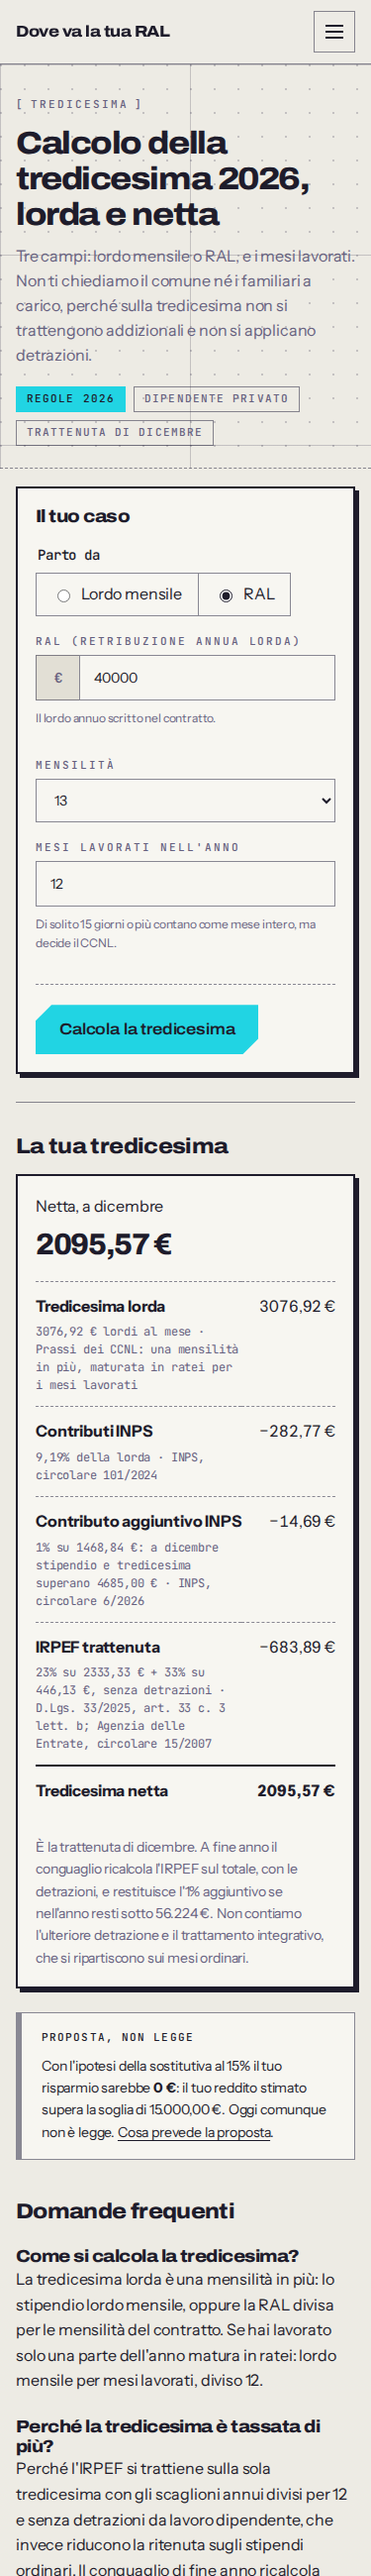
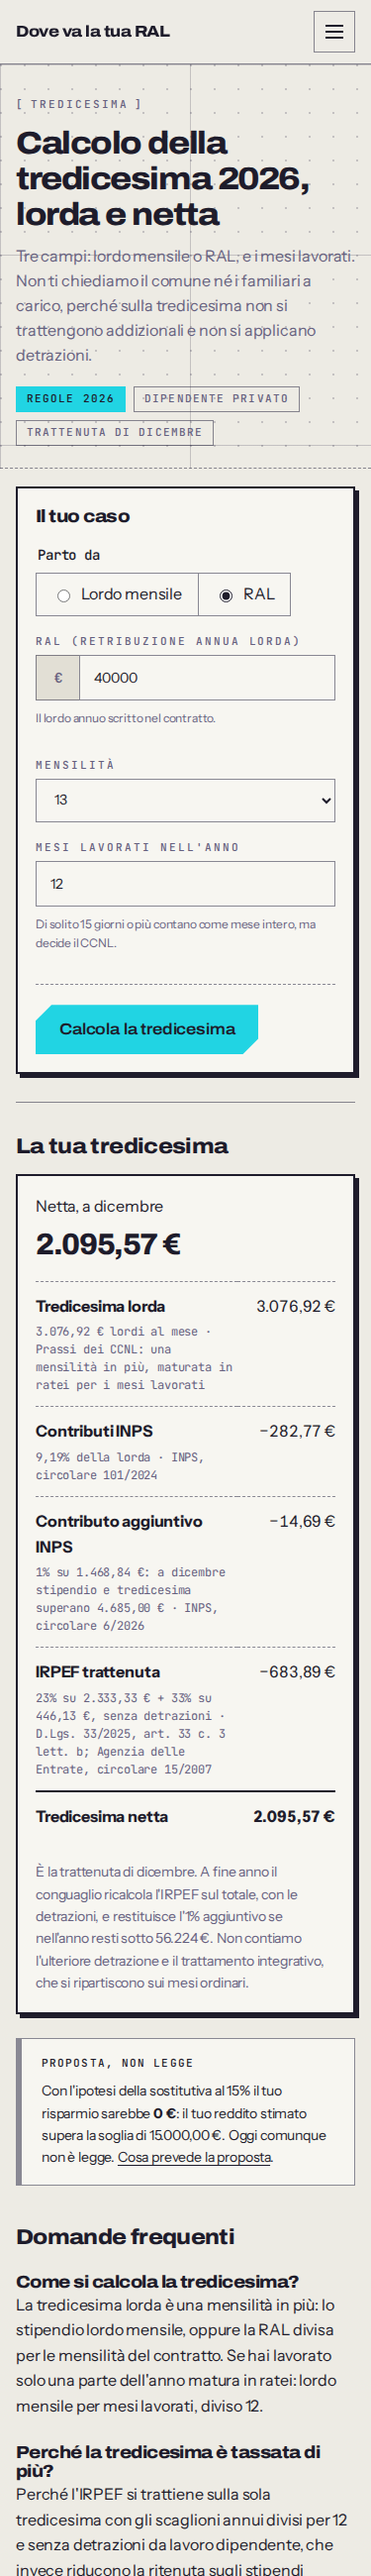
fix(RIC-76): punto delle migliaia anche sugli importi a 4 cifre
Intl it-IT non raggruppa sotto 10.000 ("3076,92 €"): la pagina ora usa
lo stesso formato di eur() del motore.

diff --git a/prototipo/tredicesima.js b/prototipo/tredicesima.js
@@ -162,7 +162,11 @@
   /* ---------- l'input come lo scrive una persona ---------- */
   const LIMITI=Object.freeze({lordo:{min:'100',max:'9000'},ral:{min:'1000',max:'120000'}});
   const MENSILITA=Object.freeze([13,14]);
-  const euro=s=>Number(s).toLocaleString('it-IT');
+  /* Come eur() del motore: il punto delle migliaia anche a 4 cifre,
+     che Intl it-IT invece omette ("3076,92"). */
+  const grp=i=>i.replace(/\B(?=(\d{3})+(?!\d))/g,'.');
+  function formattaEuro(n){const neg=n<0,[i,d]=Math.abs(n).toFixed(2).split('.');return`${neg?'−':''}${grp(i)},${d} €`;}
+  const euro=s=>grp(String(Number(s)));
 
   /* "30.000,50" → "30000.50". null se vuoto, undefined se illeggibile. */
   function leggiImporto(raw){
@@ -199,5 +203,5 @@
     return null;
   }
 
-  return{calcolaDaRal,calcolaDaLordo,normalizza,calcola,daQuery,LIMITI,K,PROPOSTA_DETASSATA,FONTI,imponibileAnnuo,dec,toNumber};
+  return{calcolaDaRal,calcolaDaLordo,normalizza,calcola,daQuery,formattaEuro,LIMITI,K,PROPOSTA_DETASSATA,FONTI,imponibileAnnuo,dec,toNumber};
 });

diff --git a/prototipo/calcolo-tredicesima/index.html b/prototipo/calcolo-tredicesima/index.html
@@ -124,7 +124,7 @@ body{padding-bottom:0}.pg{width:min(100% - (var(--gutter) * 2),1180px);margin-in
 (()=>{
   const $=id=>document.getElementById(id);
   const form=$('t-form'),box=$('risultato');
-  const euro=n=>new Intl.NumberFormat('it-IT',{style:'currency',currency:'EUR',minimumFractionDigits:2,maximumFractionDigits:2}).format(n);
+  const euro=TREDICESIMA.formattaEuro;
   const perc=n=>`${(n*100).toLocaleString('it-IT',{maximumFractionDigits:2})}%`;
   const modalita=()=>form.querySelector('input[name="modalita"]:checked').value;
   const CAMPI=['importo','mensilita','mesi'];

diff --git a/prototipo/tredicesima.test.js b/prototipo/tredicesima.test.js
@@ -125,3 +125,10 @@ test('query string: precompila, ma non inventa',()=>{
   assert.ok(T.normalizza(T.daQuery('?ral=abc')).errore);
   assert.ok(T.normalizza(T.daQuery('?ral=30000&mesi=0')).errore);
 });
+
+test('importi col punto delle migliaia anche sotto 10.000, come nel resto del sito',()=>{
+  assert.equal(T.formattaEuro(3076.92),'3.076,92 €');
+  assert.equal(T.formattaEuro(862.34),'862,34 €');
+  assert.equal(T.formattaEuro(120000),'120.000,00 €');
+  assert.match(T.normalizza({modalita:'lordo',importo:'9000.01'}).errore.messaggio,/da 100 a 9\.000 €/);
+});

diff --git a/processo/verifiche/calcolo-tredicesima/README.md b/processo/verifiche/calcolo-tredicesima/README.md
@@ -23,7 +23,7 @@ valida lascia la pagina vuota): è coperto dai test di `normalizza`.
 
 ## Test
 
-`npm test` → 491 test, 491 pass, 0 fail. Comprende `tredicesima.test.js` (13),
+`npm test` → 492 test, 492 pass, 0 fail. Comprende `tredicesima.test.js` (14),
 `calcolo-tredicesima.test.js` (6) e i 3 test di `genera-articoli` che fallivano
 dal commit del link nell'articolo.
 
